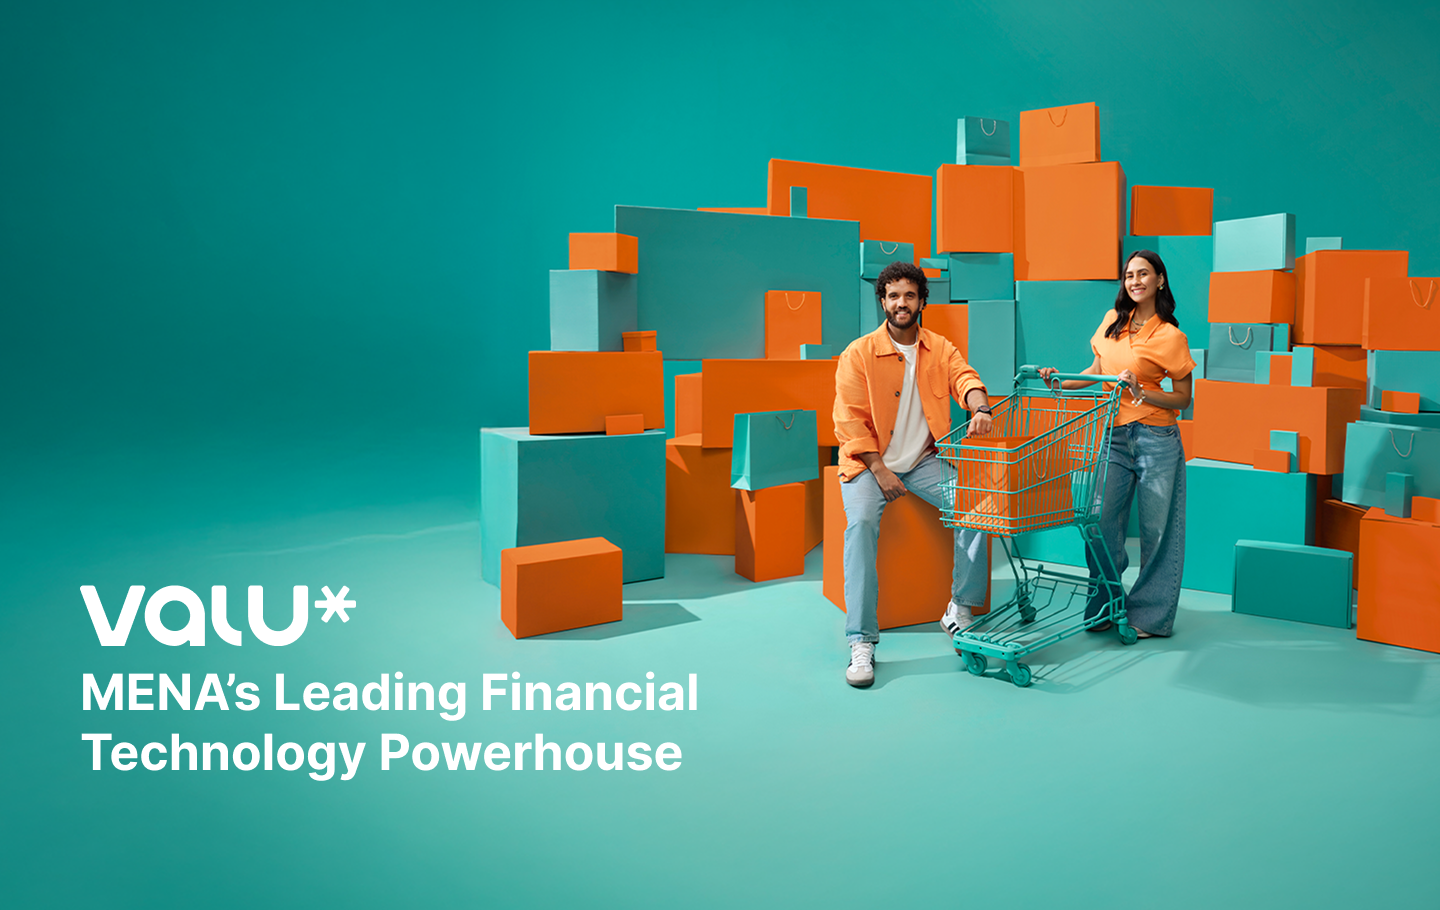
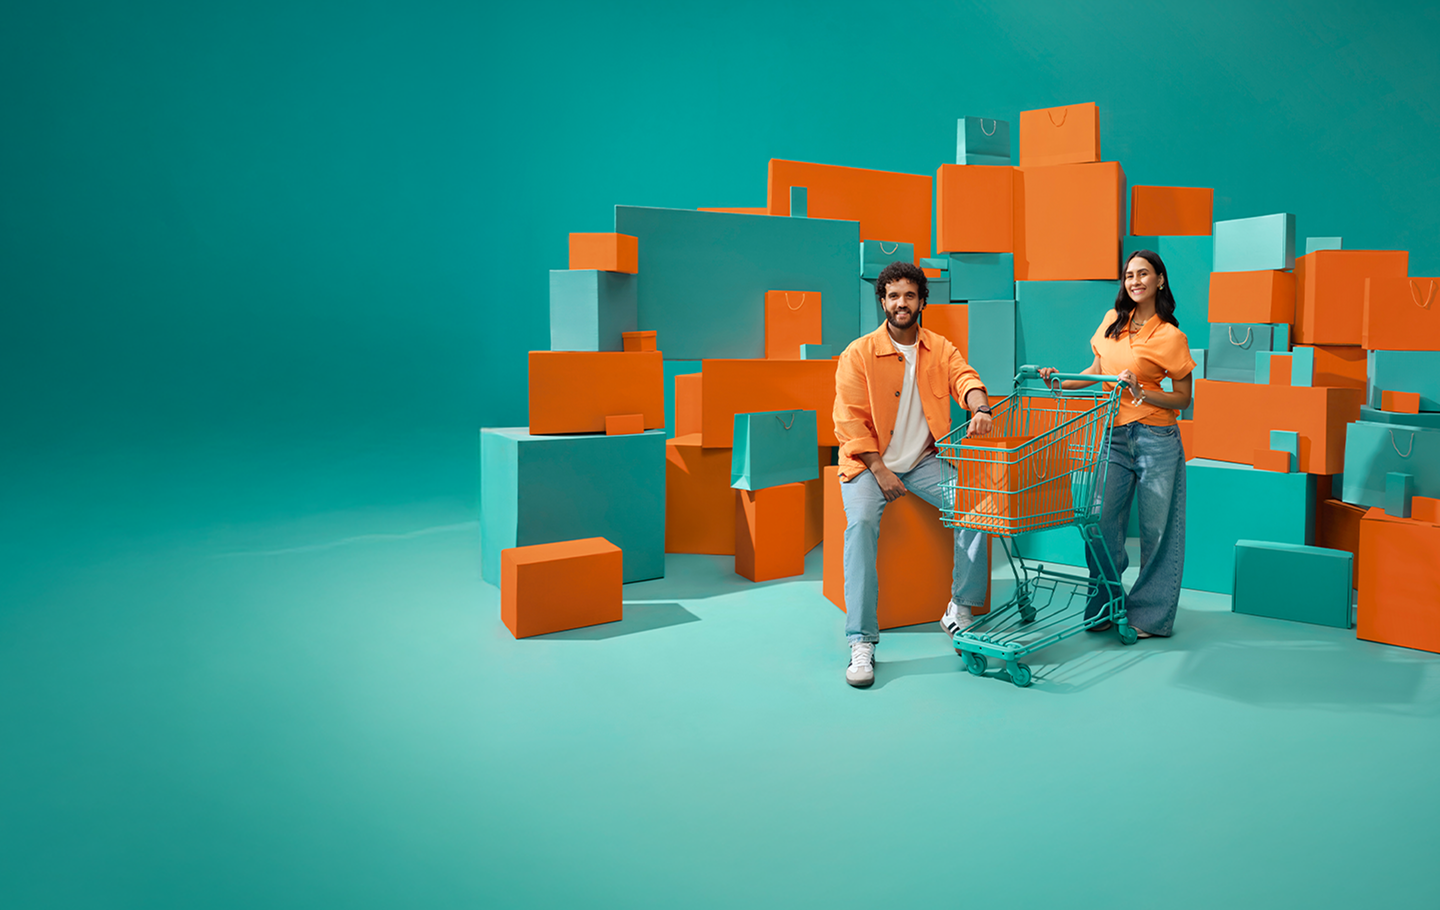
Changes

Changed region(s): [[0.0312, 0.7385, 0.5, 0.8615], [0.0312, 0.6462, 0.25, 0.7077]]

diff --git a/src/components/HeroSection.tsx b/src/components/HeroSection.tsx
@@ -3,9 +3,13 @@ import heroBackground from "@/assets/hero-background.png";
 const HeroSection = () => {
   return (
     <section className="relative min-h-[85vh] lg:min-h-screen flex flex-col justify-end overflow-hidden">
-      {/* Hero Background Image - recommended size: 1920px × 1080px */}
+      {/* 
+        Hero Background Image - recommended size: 1920px × 1080px
+        MOBILE RESPONSIVE NOTE: Currently showing right 50% of image on mobile.
+        This will be adjusted later via CMS dashboard for proper mobile-specific image.
+      */}
       <div 
-        className="absolute inset-0 bg-cover bg-center bg-no-repeat"
+        className="absolute inset-0 bg-cover bg-no-repeat bg-[center_right] lg:bg-center"
         style={{
           backgroundImage: `url(${heroBackground})`
         }}
@@ -32,9 +36,6 @@ const HeroSection = () => {
           </button>
         </div>
       </div>
-
-      {/* Gradient overlay at bottom */}
-      <div className="absolute bottom-0 left-0 right-0 h-24 lg:h-32 bg-gradient-to-t from-background to-transparent" />
     </section>
   );
 };
